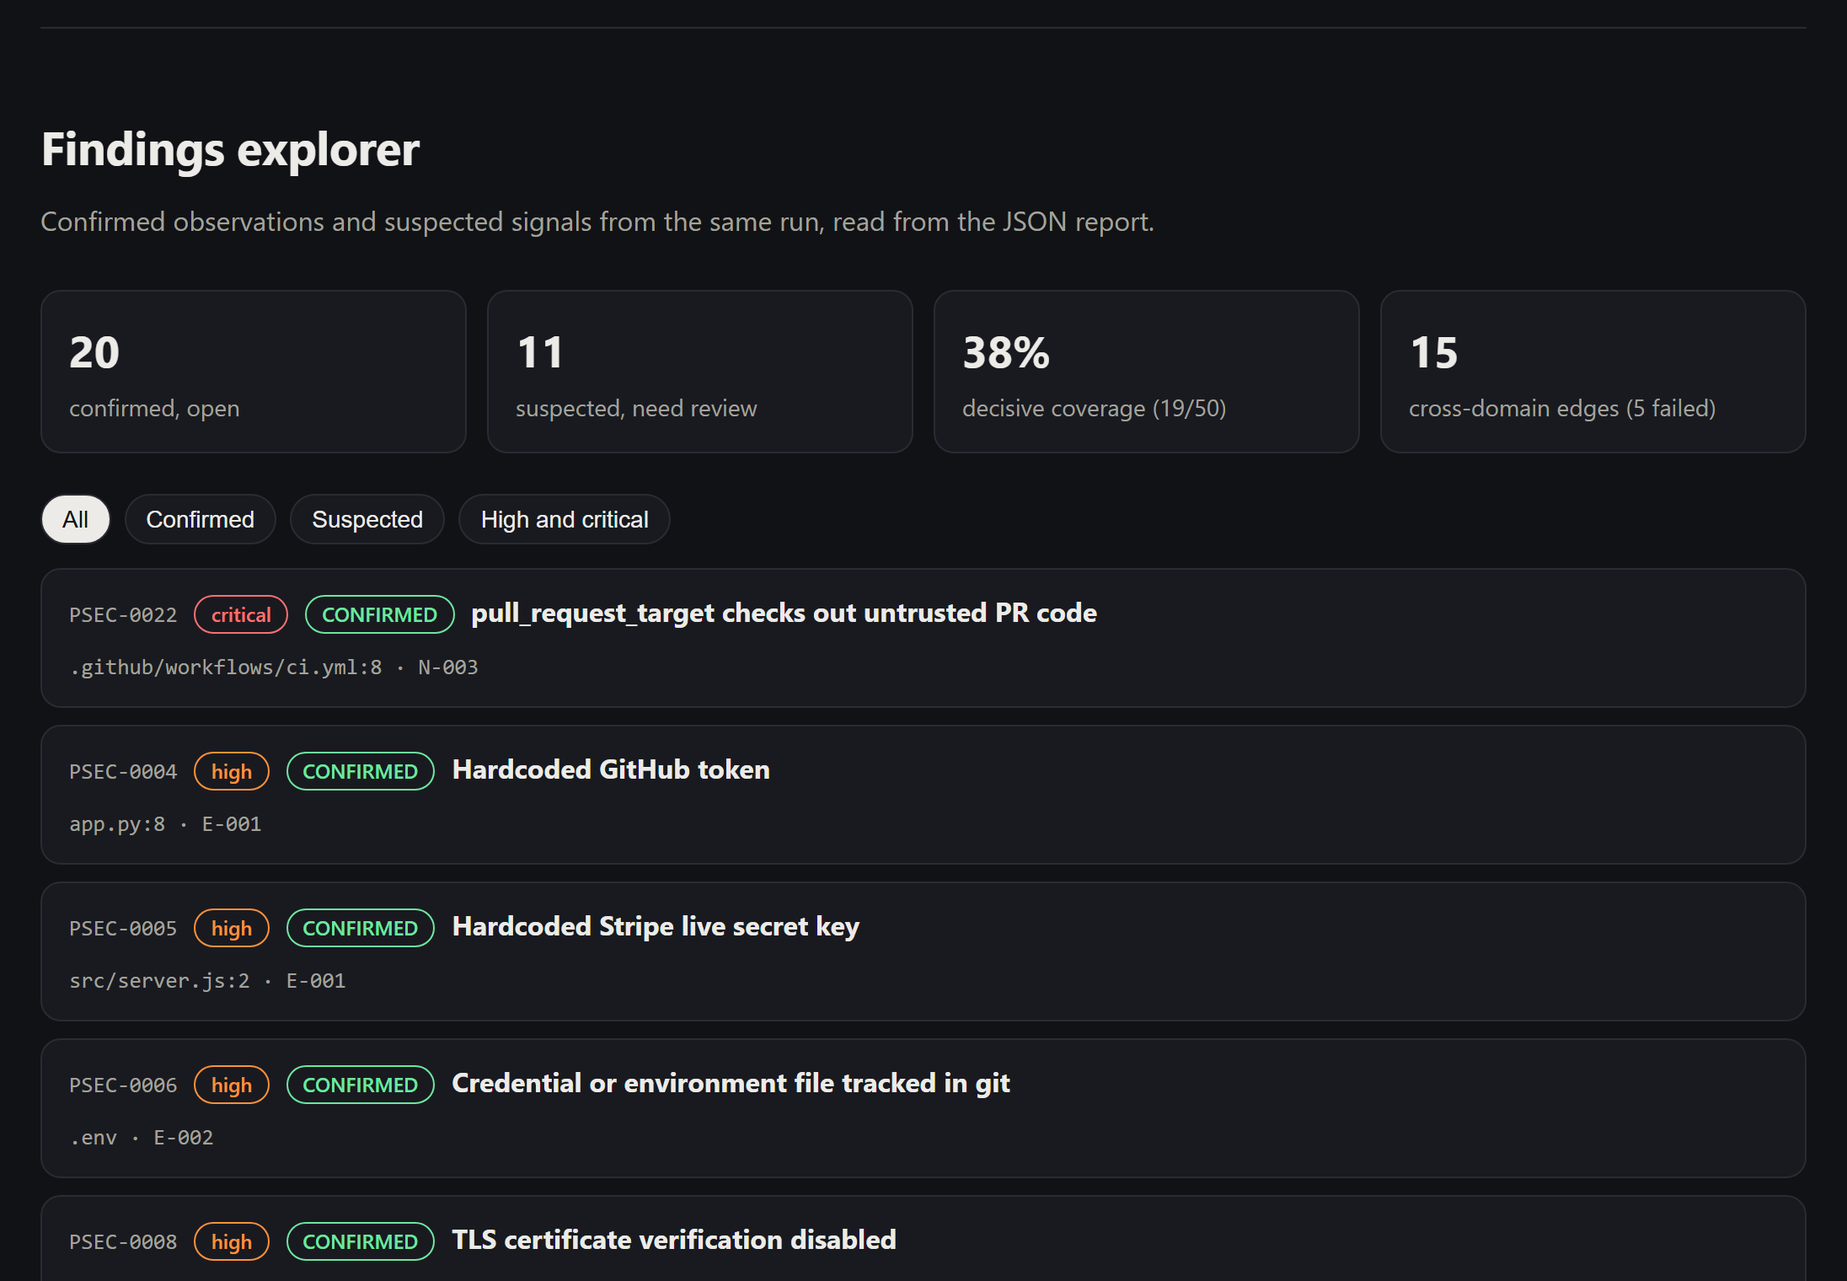
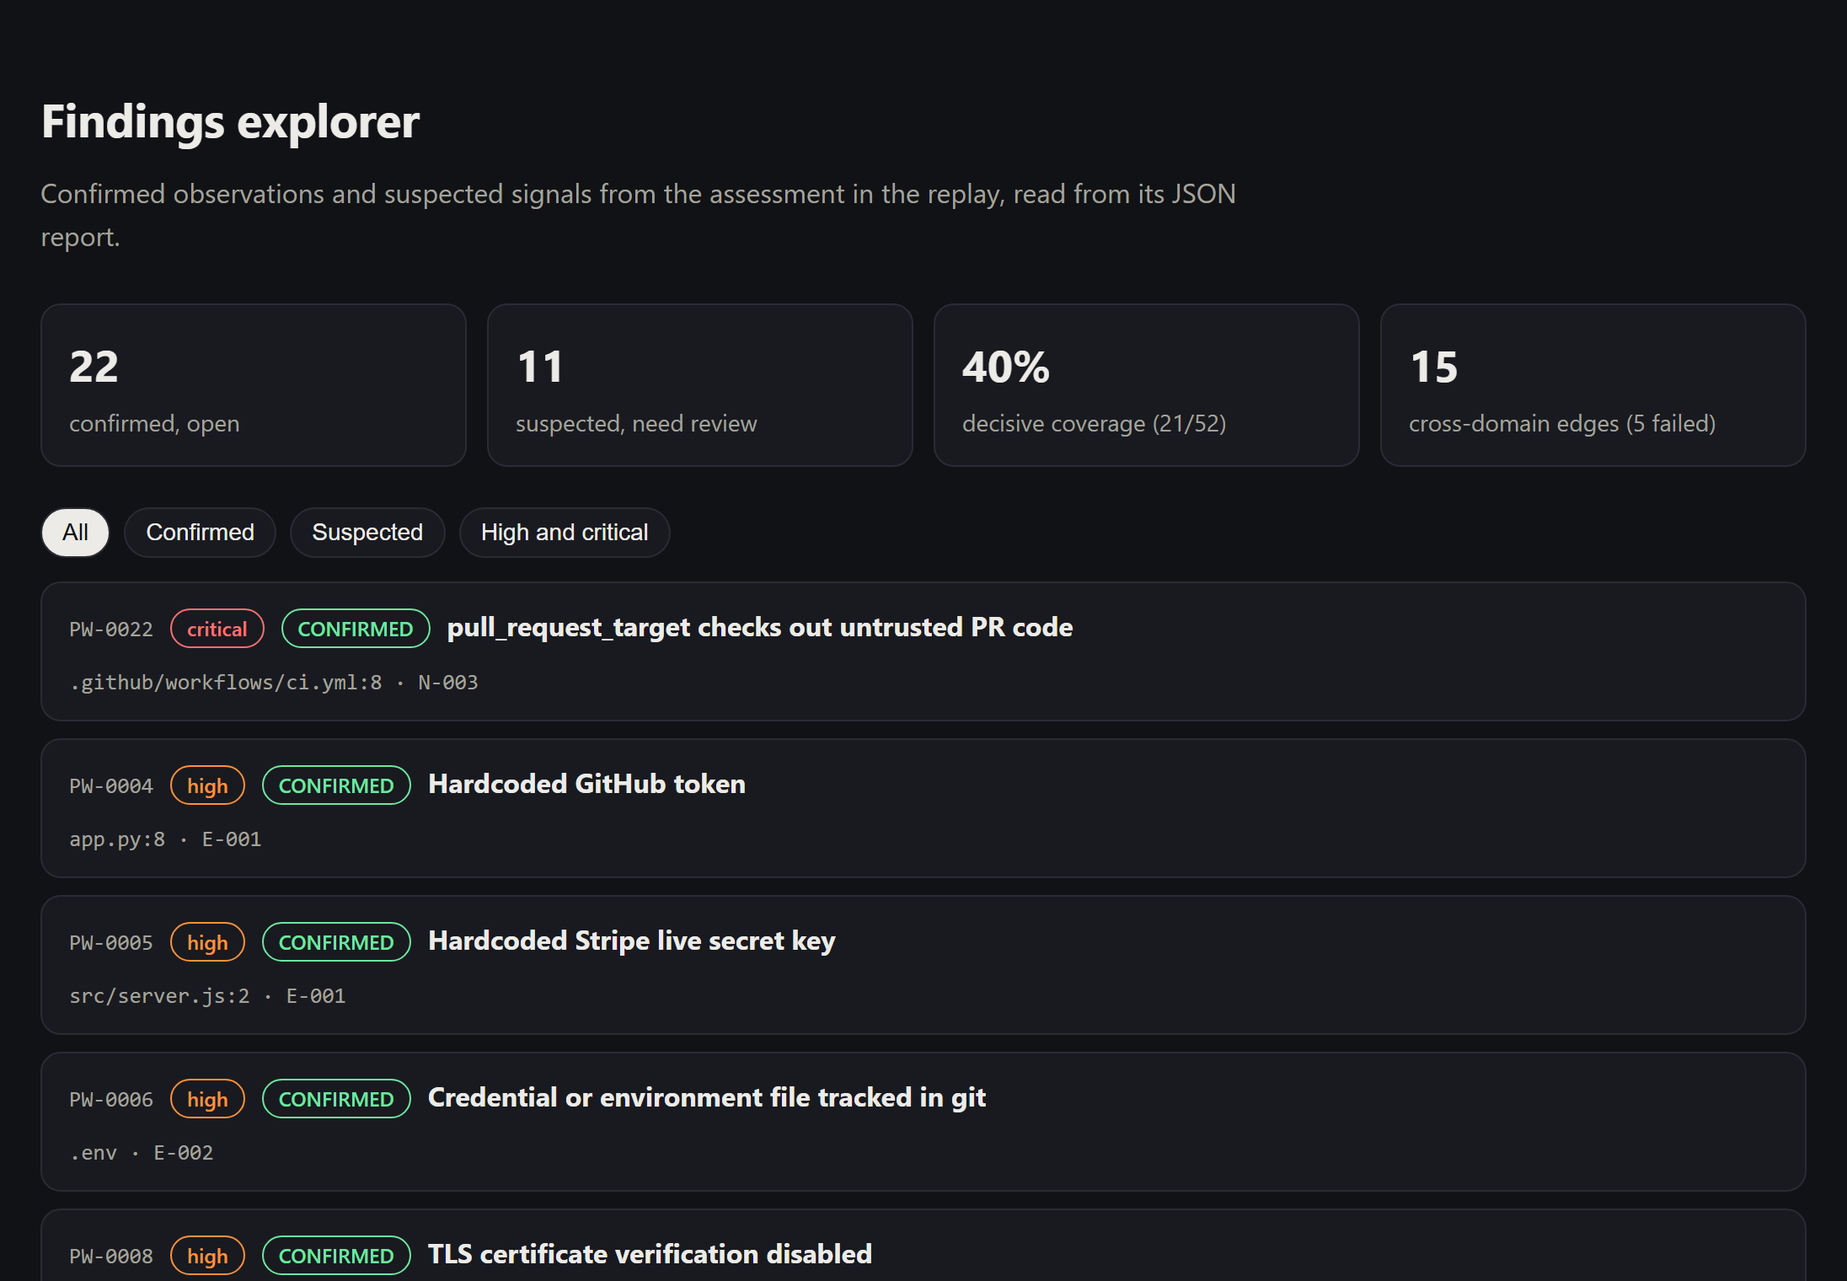
Go 1.27.3, current dependencies, changelog and fresh README media

diff --git a/site/index.html b/site/index.html
@@ -103,7 +103,7 @@ brew install ratomirjovanovic/pandaward/pandaward
 scoop bucket add pandaward https://github.com/ratomirjovanovic/pandaward
 scoop install pandaward/pandaward
 
-</span># or a release binary, or go install (Go 1.26+)
+</span># or a release binary, or go install (Go 1.27+)
 
 cd your-project
 pandaward assess</pre>

diff --git a/CHANGELOG.md b/CHANGELOG.md
@@ -1,0 +1,208 @@
+# Changelog
+
+All notable changes to PandaWard. Versions follow the release tags; each release page has binaries, checksums, the SBOM and build provenance. PandaWard was called PenSec before 0.2.0.
+
+## [0.2.14] - 2026-11-08
+
+### Added
+- Runtime checks for the last undecided runtime controls in `pandaward test --profile staging-active` (#296):
+  - G-002: `contract: {check: true}` sends every secured GET or HEAD operation of the OpenAPI contract without credentials and expects a denial (#297).
+  - B-003: `flow_checks` replay login, reset and MFA flows with negative steps the server must refuse (#298).
+  - F-002 and Q-002: `effect_checks` repeat an action in sequence or at once and check with a read-only probe that it took effect once (#299).
+  - P-003: `llm_checks` send five built-in prompt-injection payloads in a data field and look for a canary only a model that obeyed them would produce (#300).
+- State-changing requests (POST, PUT, PATCH, DELETE) as a separate opt-in: allowed only with `environment: staging` or `local`, sent only for flow, effect and LLM checks, and listed by `pandaward scope approve` (#298).
+- Identity provisioning output can carry `inputs` for request bodies and headers, kept in memory only (#298).
+
+### Fixed
+- `innerHTML` and `outerHTML` assignments built from literals, constants and escape helpers, and Prisma `$queryRaw` tagged templates, are proven safe instead of reported (#295).
+
+### Changed
+- Built with Go 1.27.3; `go install` and source builds need Go 1.27 or later.
+- modernc.org/sqlite 1.62.0.
+
+## [0.2.13] - 2026-11-05
+
+- Bump modernc.org/sqlite from 1.61.0 to 1.61.1 in the go-modules group (#237) by @dependabot[bot]
+- Add attested verdicts for manual controls (#276)
+- Draft scope manifests, provision test identities, name the ZAP install (#278)
+
+## [0.2.12] - 2026-11-04
+
+- Detect the wrong plugin variant before scanning (#266)
+- Prove html-sink values safe and list file-only SQL builders as info (#267)
+- Show how coverage was decided and a path to 100% (#268)
+- Decide A-002 for Next.js apps from the file-system route table (#269)
+- Drop osv results for packages an override replaces with local code (#270)
+- Keep runtime verdicts across passive scans while they stay valid (#271)
+- Explain scope approval input and test profiles in the CLI (#272)
+
+## [0.2.11] - 2026-11-04
+
+- Detect hidden and injected instructions in agent files and MCP tool descriptions (#254)
+- Decide controls without signals a person dismissed as false positive (#251)
+- Say what network scanners send, and offer the switch once (#250)
+- Strip invisible tag and zero-width characters in Sanitize (#256)
+
+## [0.2.10] - 2026-11-04
+
+- Fix A-002 false negative on Next.js server actions (#169)
+- Mask GitHub tokens glued to surrounding text (#236)
+- Weight down low-confidence Semgrep registry rules (#238)
+- Skip constant markup and fixed SQL choices in JavaScript rules (#239)
+- Fix false positives in DB URL, PEM stub, workspace lockfile and OAuth callback checks (#241)
+- Fix false positives in built-in code rules (#242)
+- List placeholder-shaped gitleaks matches as info (#240)
+- Flag floating tool installs and tag-only images in CI workflows (#243)
+- Report CSPs that allow unsafe inline or eval scripts (#244)
+- Flag RLS policies on privileged columns and tracked tool-local settings (#245)
+
+## [0.2.9] - 2026-10-31
+
+- Show scan progress with a percentage and the time left (#180)
+- Offer false-positive reports only while the rule still fires (#185)
+- Skip semgrep results in test and fixture code by default (#186)
+- List gitleaks hits in untracked, git-ignored files as info (#187)
+- Ask for the feedback mode wherever triage is recorded (#188)
+
+## [0.2.8] - 2026-10-30
+
+- Read the rule of a report from its table or title (#173)
+- Check every documented pandaward command against the CLI (#174)
+- Ask for feedback once and file grouped reports, including missed issues (#175)
+- Let a human mark a fixed finding as remediated (#176)
+
+## [0.2.7] - 2026-10-29
+
+- Do not treat sign-in callbacks as webhooks (#162)
+- Do not flag SQL built from constants in pandaward-js-sql-string (#165)
+- Do not flag fetches to a fixed origin in pandaward-js-ssrf (#166)
+- Apply inventory.exclude to every adapter's signals (#161)
+
+## [0.2.6] - 2026-10-29
+
+- Show live reviewer progress during the guided assessment (#154)
+
+## [0.2.5] - 2026-10-29
+
+- Keep finding identity stable across fixes and moved files (#150)
+
+## [0.2.4] - 2026-10-29
+
+- Mark releases latest, and build the hostile fixture's JSON with json.Marshal (#141)
+- Remove the MobSF key after sanitizing, not only before (#145)
+- Point links at pandaward.dev (#143)
+- Say on the site that telemetry is opt-in, and name Go 1.26 (#147)
+
+## [0.2.3] - 2026-10-29
+
+- Bump pre-commit from 4.0.1 to 4.7.0 in /.github/requirements (#133) by @dependabot[bot]
+- Bump modernc.org/sqlite from 1.34.5 to 1.61.0 in the go-modules group (#132) by @dependabot[bot]
+- Bump the actions group with 10 updates (#134) by @dependabot[bot]
+- Send opt-in telemetry to telemetry.pandaward.dev, off the command's path (#137)
+
+## [0.2.2] - 2026-10-29
+
+- Always skip the .pandaward and .pensec state directories (#120)
+- Fix bundled Semgrep false positives and run the rule fixtures in CI (#122)
+- Add an optional MobSF adapter for APK and IPA files (#118)
+- Build with Go 1.26.10 and gate CI and releases on govulncheck (#126)
+- Pin pre-commit by hash, add Dependabot, CodeQL and fuzz tests (#128)
+- Add opt-in usage telemetry, off by default (#124)
+- Stop overclaiming confidence on secrets and SQL templates (#131)
+
+## [0.2.1] - 2026-10-28
+
+- Stop the file walk once its deadline has passed (#113)
+- Ship an MCPB bundle and server.json for the MCP Registry (#111)
+- Publish a plugin-directory branch without binaries (#115)
+
+## [0.2.0] - 2026-10-28
+
+- Rename the project to Pandaward and release 0.2.0 (#108)
+
+## [0.1.6] - 2026-10-28
+
+### Upgrade notes
+- Update the `pensec` CLI together with the plugin. 0.1.6 adds `runtime.android_package` and `runtime.ios_bundle_id` to `.pensec/config.yaml`; older binaries reject unknown keys. Existing files keep working.
+- New configs list `apktool` in `scan.adapters`. To use it in an existing project, add `apktool` to that list.
+- The catalog is now `2026.10-m4` with four new controls (K-004, K-005, L-003, L-004), so the first scan after the update does not carry results over from older assessments.
+
+### Highlights
+- Mobile source checks: credentials in plain SharedPreferences and world-readable storage (K-004), `get-task-allow` outside debug entitlements (L-003), `kSecAttrAccessibleAlways` and credentials in UserDefaults (L-004) (#14).
+- Optional apktool adapter: `.apk` files in the project are decoded (resources only, the app's code is never run) and their manifest goes through the Android checks (K-005) (#14).
+- `pensec test --profile local-runtime`: reads the configured test build's storage on an Android emulator (K-003) or in an iOS simulator on macOS (L-002) and reports credential-like keys by name, never their values. Real devices are refused; anything missing is `BLOCKED` with the reason (#14).
+- The hostile-repository self-test runs in CI on every OS and before every release, and a new case checks that scanner output claiming confirmation stays a hypothesis (#15).
+- Android sources under `com/example` in `src/main/` are no longer skipped as sample code (#101).
+
+## [0.1.5] - 2026-10-28
+
+### Upgrade notes
+- Update the `pensec` CLI together with the plugin. 0.1.5 adds `runtime.zap_path` to `.pensec/config.yaml` and `zap`, `identities` and `authorization_checks` to `.pensec/scope.yaml`; older binaries reject unknown keys. Existing files keep working.
+- Claude Code does not update third-party marketplaces unless auto-update is on: `/plugin`, Marketplaces, `pensec`, Enable auto-update. Or run `claude plugin marketplace update pensec` and `claude plugin update pensec-windows@pensec` (`pensec@pensec` on macOS and Linux), then restart.
+- On Windows keep only `pensec-windows@pensec`. If `pensec@pensec` is also installed, the MCP server does not connect; see [Troubleshooting](https://github.com/ratomirjovanovic/pensec/wiki/Troubleshooting).
+
+### Highlights
+- `pensec test --profile staging-active` runs your installed ZAP (Java 17+) against approved staging or local targets: spider and passive scan for M-001, and the active scan for D-005 when the manifest sets `zap.active_scan: true`. Every ZAP request, including HTTPS, goes through the PenSec scope guard: origins, excluded paths, methods, request budget, rate limit and address checks, and a stop after three consecutive 429 or 5xx answers. A failed run is `ERROR`, a cut-short run `INCONCLUSIVE` (#13).
+- Authorization checks with test identities: list identities (credentials come from environment variables and are never stored) and read-only checks in the scope manifest. Each check is sent as every identity and anonymously; object checks decide C-001 (BOLA), function checks C-002 and revoked identities B-004 (#12).
+- `pensec doctor` shows whether ZAP is installed.
+- Documentation for updating and uninstalling, with every file PenSec creates (#92).
+
+## [0.1.4] - 2026-10-28
+
+### Upgrade notes
+- Update the `pensec` CLI (Homebrew, Scoop, release binary or `go install`) together with the plugin. `pensec init` from 0.1.4 writes a new `hooks` section to `.pensec/config.yaml`, and older binaries reject unknown config keys. Existing configs without the section keep working and get the default `hooks.auto_retest: true`.
+- The Claude Code plugin now retests automatically after Claude edits code. Set `hooks.auto_retest: false` in `.pensec/config.yaml` to turn that off.
+
+### Highlights
+- Hands-free plugin: ask Claude to check the project's security or run `/pensec:start`. Claude runs the whole assessment, asks one question at the end and carries out what you choose, with a retest after every fix (#80).
+- Automatic retest: a Stop hook retests the files edited in a turn, within 40 seconds, and hands new or reopened findings back to Claude. A clean retest stays silent (#82).
+- `pensec findings apply --file decisions.json --by <name>` records many triage decisions in one transaction, and the plugin shows the whole list in one confirmation prompt (#83).
+- The website shows the install commands for the visitor's platform (#87).
+
+## [0.1.3] - 2026-10-28
+
+- Clone plugin sources over HTTPS (#46)
+- Report the module version for go install builds (#49)
+- Update install instructions in README, website and VERIFYING.md (#50)
+- Run OpenSSF Scorecard and show its badge (#63)
+- Add pre-commit hooks (#60)
+- Add Homebrew, Scoop and winget packages (#62)
+- Add a GitHub Action (#59)
+- Validate optional scanner adapters against real tool output (#67)
+- Measure built-in rules on the OWASP Benchmark (#64)
+- Add an animated terminal demo generated from a real session (#65)
+- Collect false positive and false negative reports and prioritize rule fixes (#68)
+- Import findings from SARIF files (#61)
+- Add a guided assessment: pensec assess and /pensec:start (#70)
+
+## [0.1.2] - 2026-10-28
+
+- Freeze schemas and pin them with a golden test (#41)
+- Declare the plugin MCP server inline and keep plugin branches byte-exact (#44)
+
+## [0.1.1] - 2026-10-27
+
+- Deterministic SBOM serial number for the release attestation (#39)
+
+
+[0.2.14]: https://github.com/ratomirjovanovic/pandaward/compare/v0.2.13...v0.2.14
+[0.2.13]: https://github.com/ratomirjovanovic/pandaward/compare/v0.2.12...v0.2.13
+[0.2.12]: https://github.com/ratomirjovanovic/pandaward/compare/v0.2.11...v0.2.12
+[0.2.11]: https://github.com/ratomirjovanovic/pandaward/compare/v0.2.10...v0.2.11
+[0.2.10]: https://github.com/ratomirjovanovic/pandaward/compare/v0.2.9...v0.2.10
+[0.2.9]: https://github.com/ratomirjovanovic/pandaward/compare/v0.2.8...v0.2.9
+[0.2.8]: https://github.com/ratomirjovanovic/pandaward/compare/v0.2.7...v0.2.8
+[0.2.7]: https://github.com/ratomirjovanovic/pandaward/compare/v0.2.6...v0.2.7
+[0.2.6]: https://github.com/ratomirjovanovic/pandaward/compare/v0.2.5...v0.2.6
+[0.2.5]: https://github.com/ratomirjovanovic/pandaward/compare/v0.2.4...v0.2.5
+[0.2.4]: https://github.com/ratomirjovanovic/pandaward/compare/v0.2.3...v0.2.4
+[0.2.3]: https://github.com/ratomirjovanovic/pandaward/compare/v0.2.2...v0.2.3
+[0.2.2]: https://github.com/ratomirjovanovic/pandaward/compare/v0.2.1...v0.2.2
+[0.2.1]: https://github.com/ratomirjovanovic/pandaward/compare/v0.2.0...v0.2.1
+[0.2.0]: https://github.com/ratomirjovanovic/pandaward/compare/v0.1.6...v0.2.0
+[0.1.6]: https://github.com/ratomirjovanovic/pandaward/compare/v0.1.5...v0.1.6
+[0.1.5]: https://github.com/ratomirjovanovic/pandaward/compare/v0.1.4...v0.1.5
+[0.1.4]: https://github.com/ratomirjovanovic/pandaward/compare/v0.1.3...v0.1.4
+[0.1.3]: https://github.com/ratomirjovanovic/pandaward/compare/v0.1.2...v0.1.3
+[0.1.2]: https://github.com/ratomirjovanovic/pandaward/compare/v0.1.1...v0.1.2
+[0.1.1]: https://github.com/ratomirjovanovic/pandaward/releases/tag/v0.1.1

diff --git a/README.md b/README.md
@@ -13,7 +13,7 @@
   <a href="https://github.com/ratomirjovanovic/pandaward/actions/workflows/ci.yml"><img alt="CI" src="https://github.com/ratomirjovanovic/pandaward/actions/workflows/ci.yml/badge.svg"></a>
   <a href="https://scorecard.dev/viewer/?uri=github.com/ratomirjovanovic/pandaward"><img alt="OpenSSF Scorecard" src="https://api.scorecard.dev/projects/github.com/ratomirjovanovic/pandaward/badge"></a>
   <a href="LICENSE"><img alt="License: AGPL-3.0" src="https://img.shields.io/badge/license-AGPL--3.0-blue"></a>
-  <img alt="Go 1.26+" src="https://img.shields.io/badge/go-1.26%2B-00ADD8">
+  <img alt="Go 1.27+" src="https://img.shields.io/badge/go-1.27%2B-00ADD8">
   <img alt="Status: alpha" src="https://img.shields.io/badge/status-alpha-orange">
 </p>
 
@@ -29,7 +29,7 @@
 Most scanners print a list of alerts and stop. PandaWard keeps a **ledger**: every control it could check, how it checked it, the redacted evidence, and every control it could *not* decide. Findings are fingerprinted across runs, so a fix becomes `REMEDIATED` only when the check runs again and no longer sees the problem, and a moved or renamed file keeps its findings, their IDs and your triage instead of reading as fixed.
 
 <p align="center">
-  <img src="docs/media/demo.svg" width="860" alt="Terminal session on the bundled demo project: pandaward init detects the stack, pandaward scan reports which adapters ran and which are BLOCKED, 38% decisive coverage and 33 open findings, then findings, the cross-domain graph and an ordered fix plan">
+  <img src="docs/media/demo.svg" width="860" alt="Terminal session on the bundled demo project: pandaward init detects the stack, pandaward scan reports which adapters ran and which are BLOCKED, 40% decisive coverage and 33 open findings, then findings, the cross-domain graph and an ordered fix plan">
   <br><sub>A real session on the bundled demo project, generated by <code>tools/termdemo</code>.</sub>
 </p>
 
@@ -37,7 +37,7 @@ Most scanners print a list of alerts and stop. PandaWard keeps a **ledger**: eve
   <a href="https://pandaward.dev/demo/">
     <picture>
       <source media="(prefers-color-scheme: dark)" srcset="docs/media/findings-dark.png">
-      <img src="docs/media/findings-light.png" width="860" alt="PandaWard findings explorer for the bundled acme-shop fixture: 20 confirmed findings, 11 suspected, 38% decisive coverage, with a critical pull_request_target finding and hardcoded secrets at the top">
+      <img src="docs/media/findings-light.png" width="860" alt="PandaWard findings explorer for the bundled acme-shop fixture: 22 confirmed findings, 11 suspected, 40% decisive coverage, with a critical pull_request_target finding and hardcoded secrets at the top">
     </picture>
   </a>
   <br><sub>Findings from a real scan of the bundled vulnerable fixture. <a href="https://pandaward.dev/demo/">Open the live demo</a> for the terminal replay and the full report.</sub>
@@ -132,7 +132,7 @@ Invoke-WebRequest https://github.com/ratomirjovanovic/pandaward/releases/downloa
 (Get-FileHash pandaward.exe).Hash   # compare with the line in SHA256SUMS
 ```
 
-Or install with Go 1.26 or later: `go install github.com/ratomirjovanovic/pandaward/cmd/pandaward@latest`. The binary has no runtime dependencies.
+Or install with Go 1.27 or later: `go install github.com/ratomirjovanovic/pandaward/cmd/pandaward@latest`. The binary has no runtime dependencies.
 
 Update with `brew upgrade pandaward` or `scoop update pandaward`; for a downloaded binary, replace the file with the new release. Remove with `brew uninstall pandaward` or `scoop uninstall pandaward`, or delete the binary. `pandaward version` shows what you have.
 
@@ -431,7 +431,7 @@ repos:
   - repo: https://github.com/ratomirjovanovic/pandaward
     rev: v0.2.14
     hooks:
-      - id: pandaward-system   # uses the pandaward on your PATH; use id: pandaward to build it with Go 1.26+
+      - id: pandaward-system   # uses the pandaward on your PATH; use id: pandaward to build it with Go 1.27+
 ```
 
 The hook runs `pandaward scan --quiet --fail-on high` and blocks the commit when open high or critical findings exist. It scans the working tree, not only the staged files.
@@ -483,7 +483,7 @@ Tell us, and the rule gets fixed. PandaWard is open source and its rules improve
 
 ## Contributing and security
 
-Contributions are welcome. Start with [CONTRIBUTING.md](CONTRIBUTING.md). Please report vulnerabilities in PandaWard itself privately as described in [SECURITY.md](SECURITY.md).
+Contributions are welcome. Start with [CONTRIBUTING.md](CONTRIBUTING.md). Please report vulnerabilities in PandaWard itself privately as described in [SECURITY.md](SECURITY.md). What changed in each version is in [CHANGELOG.md](CHANGELOG.md).
 
 ## License
 

diff --git a/docs/RELEASING.md b/docs/RELEASING.md
@@ -1,7 +1,7 @@
 # Releasing
 
 0. Check that the `go` line in `go.mod` names the latest patch of a supported Go release (see [go.dev/dl](https://go.dev/dl/)); Dependabot does not change it. CI and the release job run govulncheck on the source and on the binaries and fail on any reachable vulnerability, including ones in the standard library of an old toolchain.
-1. In a release pull request, set the new version in `.claude-plugin/plugin.json`, `Makefile` (`VERSION ?= X.Y.Z-dev`) and, once it exists, the `version` input default in `action.yml`. Tests fail when the plugin and action versions differ.
+1. In a release pull request, add the version to `CHANGELOG.md` and set it in `.claude-plugin/plugin.json`, `Makefile` (`VERSION ?= X.Y.Z-dev`) and, once it exists, the `version` input default in `action.yml`. Tests fail when the plugin and action versions differ.
 2. Merge it, then tag `main`: `git tag -a vX.Y.Z -m "PandaWard X.Y.Z"` and `git push origin vX.Y.Z`. The release workflow builds twice, checks that both builds match, attaches binaries, `SHA256SUMS`, the SBOM and `benchmark.json`, attests provenance and the SBOM, and updates the `plugin`, `plugin-windows` and `plugin-directory` branches. The Claude plugin directory tracks `plugin-directory`, because it refuses files over 5 MiB: that branch has no binaries, and its launcher downloads the binary for the platform from the release on first use and runs it only if it matches the pinned `bin/SHA256SUMS`.
 3. Verify the release as in [VERIFYING.md](VERIFYING.md).
 4. Update the packages in a follow-up pull request:
